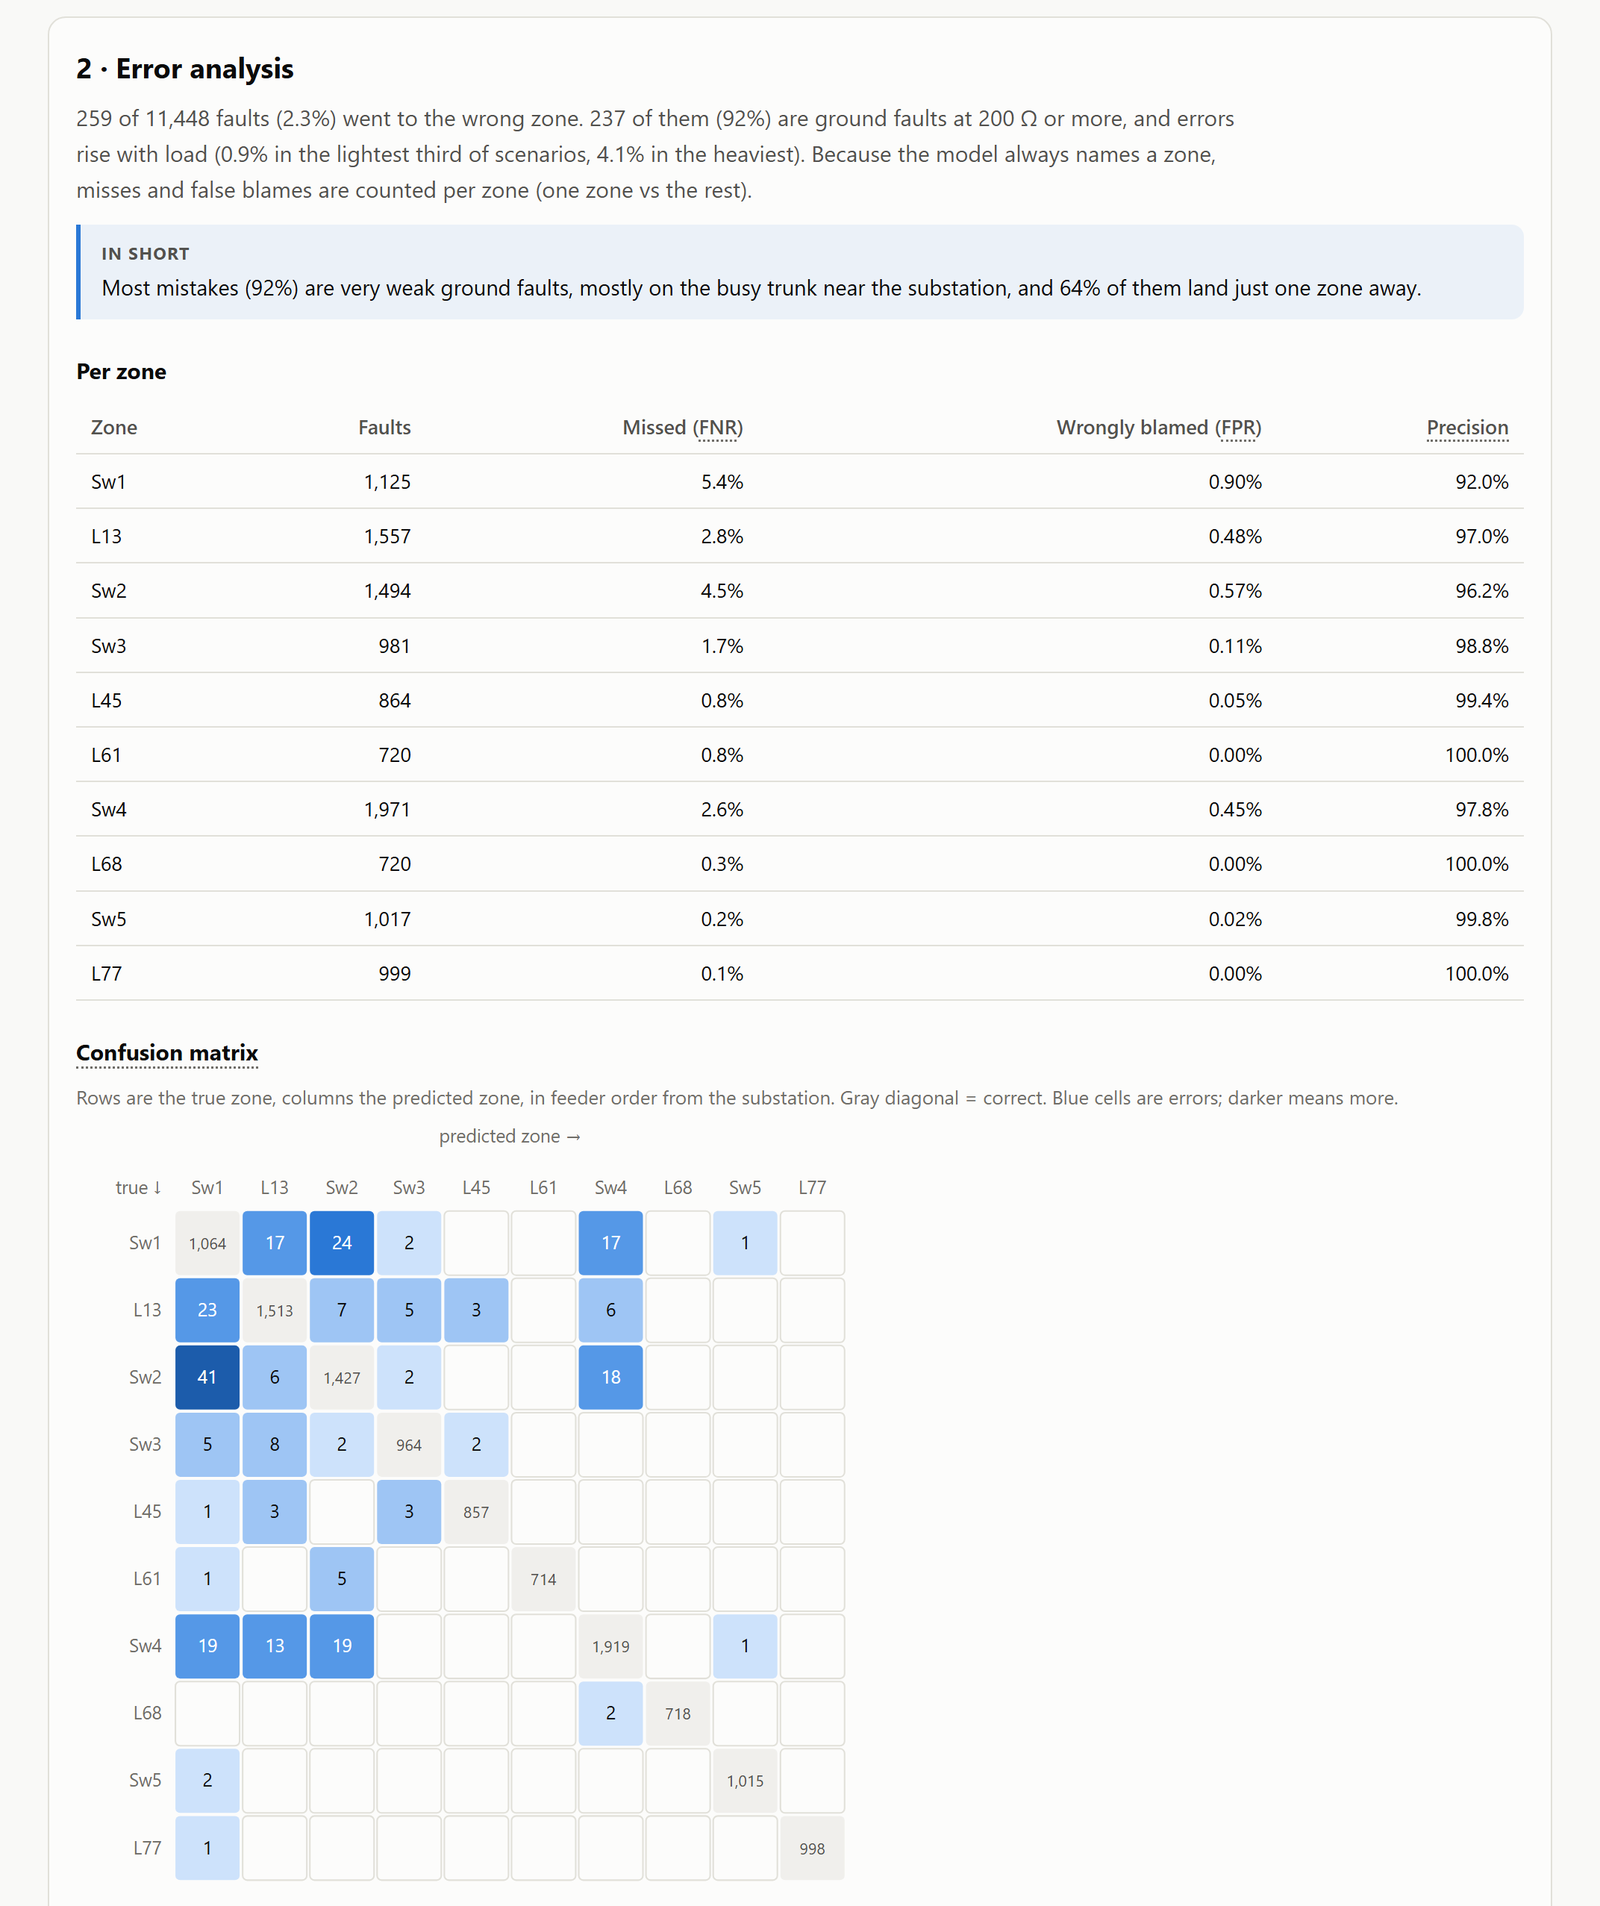
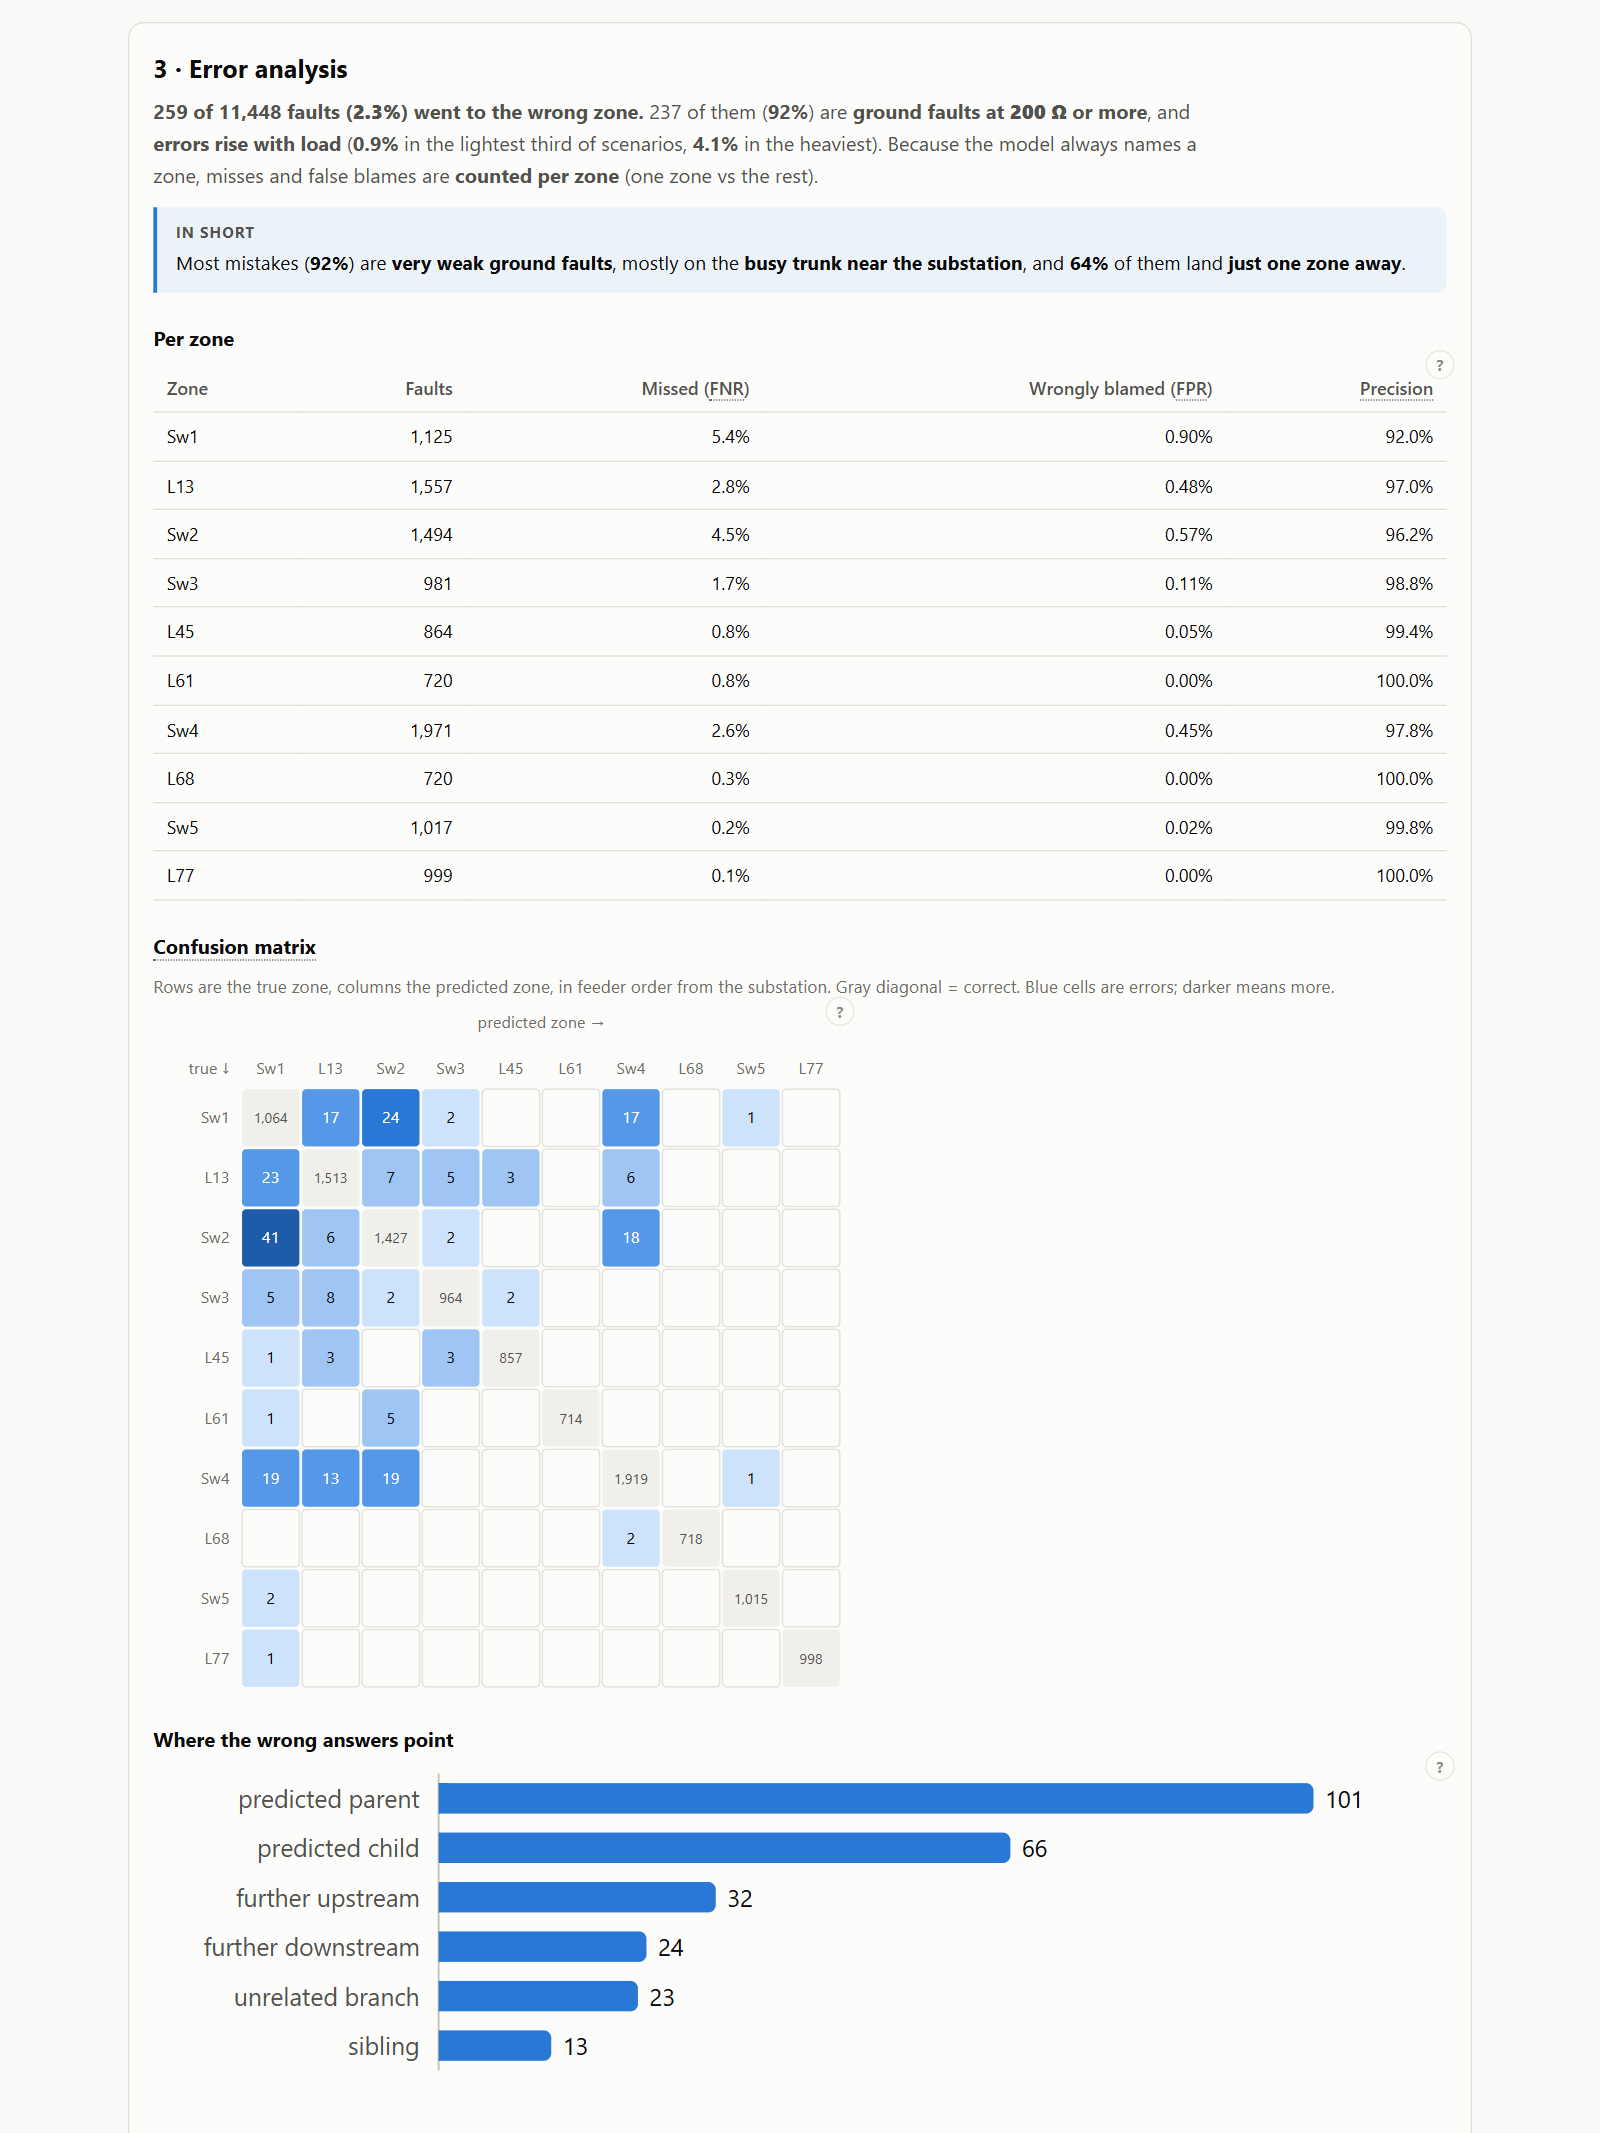
README: retake the report screenshots from the live page
The overview now shows the Monitor button and the 30-second tour; the headline
numbers and run checks get their own image. 3D model, fault location, error
analysis, restoration and Q&A screenshots match the current page.

diff --git a/README.md b/README.md
@@ -15,7 +15,9 @@ When the feeder-head recloser locks out, a crew without fault location has to pa
 
 **📄 [Technical study](https://chau1912550.github.io/self-healing-feeder/study/)** ([Tiếng Việt](https://chau1912550.github.io/self-healing-feeder/study/?lang=vi)): for readers with a technical background. The same study written like a paper: problem, hypotheses, test system, method, validation, results, error analysis, restoration, limits and how to reproduce it, with a 3D feeder and a step-by-step fault replay. Every number on it is filled from `results/` by [`scripts/build_study_site.py`](scripts/build_study_site.py). Vietnamese study guide with worked examples: [`docs/vi/study-guide.md`](docs/vi/study-guide.md).
 
-[![Run report: headline numbers and run checks](docs/images/report-overview.png)](https://chau1912550.github.io/self-healing-feeder/)
+[![Run report: the Monitor button, the 30-second tour of what the project does, and the order to read the page](docs/images/report-overview.png)](https://chau1912550.github.io/self-healing-feeder/)
+
+[![Run report: headline numbers and run checks](docs/images/report-headline.png)](https://chau1912550.github.io/self-healing-feeder/#health)
 
 <details>
 <summary><b>More screenshots</b>: explain guide, fault location, error analysis, restoration, questions &amp; answers</summary>
